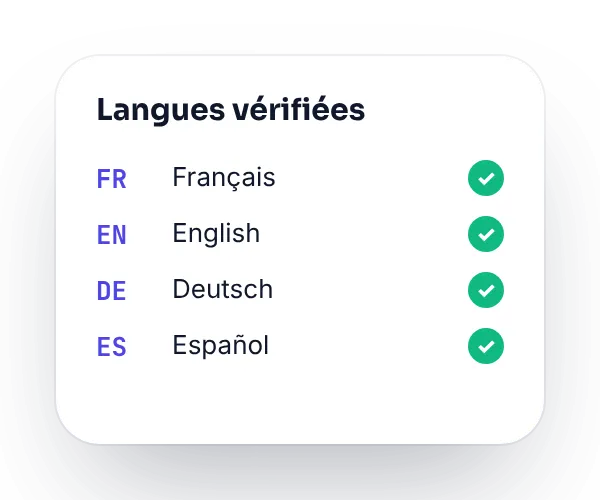
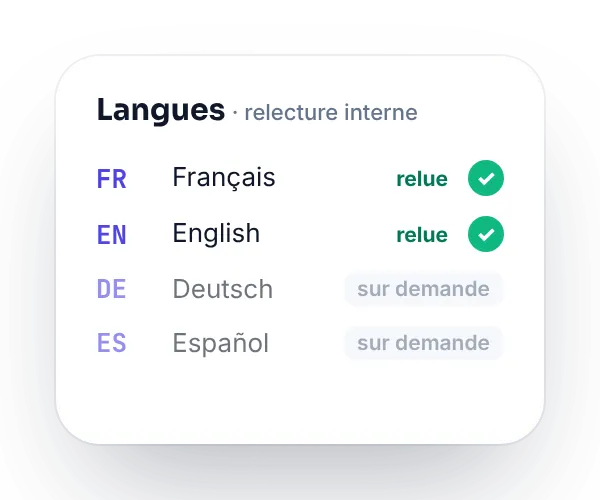
Landings v3: accuracy and pricing fixes (review method wording, language mockup, monthly plan caps, C4 review count, EU market, stale-data definition)

diff --git a/c1/index.html b/c1/index.html
@@ -62,11 +62,11 @@
    <article class="tile rv" style="--d:.24s" data-tilt><div class="pic"><img src="img/pb-uninstall.webp" width="440" height="300" loading="lazy" alt="Code d'une appli désinstallée resté dans le thème"></div><h3>Impossible à enlever</h3><p>Appli supprimée. Code et factures restés.</p></article>
   </div>
   <div class="proof rv">
-   <div class="pf"><span class="n">158</span><p>avis 1–2★ d'applis de traduction et photo lus un par un</p></div>
+   <div class="pf"><span class="n">158</span><p>avis 1–2★ d'applis de traduction et photo analysés</p></div>
    <div class="pf"><span class="n">68</span><p>parlent de thème, checkout ou SEO cassé</p></div>
    <div class="pf"><span class="n">57</span><p>d'un prix qui grimpe sans prévenir</p></div>
    <div class="pf"><span class="n">53</span><p>d'aucun humain pour aider</p></div>
-   <small>Source : avis publics sur le Shopify App Store, codés à la main en octobre 2026 (notre recherche, pas des résultats clients).</small>
+   <small>Source : avis publics sur le Shopify App Store, analysés par mots-clés en octobre 2026. Comptages approximatifs ; un avis peut entrer dans plusieurs catégories. Notre recherche, pas des résultats clients.</small>
   </div>
  </div>
 </section>
@@ -102,7 +102,7 @@
    <article class="tile big rv" data-tilt><div class="pic"><img src="img/after.webp" width="640" height="386" loading="lazy" alt="Fiche produit complète en français"></div><h3>La fiche complète</h3><ul><li>Titre SEO, description, points clés</li><li>Variantes et textes alt</li></ul></article>
    <article class="tile rv" style="--d:.08s" data-tilt><div class="pic"><img src="img/hero-csv.webp" width="520" height="300" loading="lazy" alt="Fichier CSV prêt à importer"></div><h3>Prête à importer</h3><p>CSV Shopify, PrestaShop ou WooCommerce. Ou saisie pour vous.</p></article>
    <article class="tile rv" style="--d:.16s" data-tilt><div class="pic"><img src="img/serp.webp" width="560" height="220" loading="lazy" alt="Aperçu d'un résultat de recherche avec titre et méta optimisés"></div><h3>Pensée pour le SEO</h3><p>Titre et méta à la bonne longueur.</p></article>
-   <article class="tile wide rv" data-tilt><div class="pic fit"><img src="img/hero-langs.webp" width="300" height="250" loading="lazy" alt="Liste de langues vérifiées"></div><h3>+ langues UE</h3><p>EN, DE, ES, IT. FR et EN relus en interne ; pour les autres, on vous le dit avant.</p></article>
+   <article class="tile wide rv" data-tilt><div class="pic fit"><img src="img/hero-langs.webp" width="300" height="250" loading="lazy" alt="Langues : français et anglais relus en interne, allemand et espagnol sur demande"></div><h3>+ langues UE</h3><p>EN, DE, ES, IT. FR et EN relus en interne ; pour les autres, on vous le dit avant.</p></article>
    <article class="tile wide rv" style="--d:.08s" data-tilt><div class="pic"><img src="img/audit.webp" width="560" height="400" loading="lazy" alt="Rapport d'audit avec liste de corrections priorisées"></div><h3>Vérifiée en ligne</h3><p>On contrôle la page publiée : caractères, variantes, URL.</p></article>
   </div>
  </div>
@@ -118,8 +118,8 @@
    <article class="plan hot rv" style="--d:.08s" data-tilt><span class="pill">Répond à la plainte n°1</span><h3>Audit localisation sans casse</h3><div class="amt">149 €</div><p class="sub">forfait · jusqu'à 25 pages clés</p>
     <ul><li>Checkout et panier non traduits</li><li>hreflang, URL par langue</li><li>TVA et devise par marché</li><li>Code laissé par d'anciennes applis</li><li>Corrections priorisées + visio 20 min</li></ul>
     <a class="btn" href="mailto:mydev.grokbot@gmail.com?subject=%5BC1%5D%20Audit%20149%20%E2%82%AC&amp;body=Lien%20de%20la%20boutique%20%3A%0ALangues%20en%20ligne%20%3A%0AProbl%C3%A8me%20constat%C3%A9%20%3A%0A">Demander l'audit</a></article>
-   <article class="plan rv" style="--d:.16s" data-tilt><h3>Catalogue FR sous contrôle</h3><div class="amt">190 €<small> / mois</small></div><p class="sub">sans engagement · « stop » par e-mail pour arrêter</p>
-    <ul><li>20 fiches nouvelles ou mises à jour / mois</li><li>FR + 1 langue UE</li><li>Contrôle après chaque mise à jour</li><li>Humain sous 1 jour ouvré</li><li>Même prix, quel que soit le nombre de mots</li></ul>
+   <article class="plan rv" style="--d:.16s" data-tilt><h3>Catalogue FR sous contrôle</h3><div class="amt">190 €<small> / mois</small></div><p class="sub">jusqu'à 7 fiches / mois · sans engagement · « stop » par e-mail</p>
+    <ul><li>Jusqu'à 7 fiches FR nouvelles ou mises à jour / mois</li><li>Contrôle mensuel des pages traduites (mini-audit)</li><li>Vérification après mise à jour du thème ou des applis</li><li>Humain sous 1 jour ouvré</li><li>Langue UE en plus : +12 € / fiche</li></ul>
     <a class="btn" href="mailto:mydev.grokbot@gmail.com?subject=%5BC1%5D%20Mensuel%20190%20%E2%82%AC&amp;body=Lien%20de%20la%20boutique%20%3A%0AProduits%20par%20mois%20%3A%0ALangues%20%3A%0A">En parler</a></article>
   </div>
   <div class="guar rv"><span class="shield" aria-hidden="true">🛡</span><p><b>En retard ou import raté ? Refaite ou remboursée.</b> Audit sans correction concrète ? Gratuit. Nous garantissons le travail livré, pas vos ventes.</p></div>

diff --git a/c4/index.html b/c4/index.html
@@ -61,10 +61,10 @@
    <article class="tile rv" style="--d:.16s" data-tilt><div class="pic"><img src="img/pb-trap.webp" width="440" height="300" loading="lazy" alt="Subscription screen pushing an annual plan with a hidden cancel link"></div><h3>Subscriptions that cling</h3><p>Free trial today. Annual plan tomorrow.</p></article>
   </div>
   <div class="proof p3 rv">
-   <div class="pf"><span class="n">65</span><p>one- and two-star reviews of product-research tools, read one by one</p></div>
-   <div class="pf"><span class="n">#1</span><p>complaint: billing and cancel traps. Next: outdated data.</p></div>
+   <div class="pf"><span class="n">54</span><p>one- and two-star reviews of three product-research tools, read one by one</p></div>
+   <div class="pf"><span class="n">15</span><p>of them: billing and cancel traps, the top complaint. Next: outdated data (7).</p></div>
    <div class="pf"><span class="n">2</span><p>of 54 research-tool reviews blamed products that didn't sell</p></div>
-   <small>Source: public Trustpilot reviews of four product-research tools, read in October 2026 (our research, not customer results).</small>
+   <small>Source: public Trustpilot reviews of three product-research tools, read in October 2026 and sorted by main complaint (our research, not customer results).</small>
   </div>
  </div>
 </section>
@@ -119,11 +119,11 @@
    <article class="plan hot rv" style="--d:.12s" data-tilt><span class="pill">Full decision</span><h3>Three + plan</h3><div class="amt">€149</div><p class="sub">3 products + test plan + call</p>
     <ul><li>Everything in Three</li><li>Capped test plan</li><li>20-min review call</li></ul>
     <a class="btn" href="mailto:mydev.grokbot@gmail.com?subject=%5BC4%5D%20Three%20%2B%20plan%20%E2%82%AC149&amp;body=Product%20links%20(3)%3A%0ATarget%20country%3A%0AMonthly%20ad%20budget%20(approx.)%3A%0A">Choose Three + plan</a></article>
-   <article class="plan rv" style="--d:.18s" data-tilt><h3>Decision Desk</h3><div class="amt">€99<small> / mo</small></div><p class="sub">Cancel anytime: reply "stop"</p>
-    <ul><li>3 reports a month</li><li>1 live-test check vs its kill rule</li><li>No annual plan, no trial trap</li></ul>
+   <article class="plan rv" style="--d:.18s" data-tilt><h3>Decision Desk</h3><div class="amt">€99<small> / mo</small></div><p class="sub">For ongoing testing · cancel anytime: reply "stop"</p>
+    <ul><li>2 reports a month</li><li>1 live-test check vs its kill rule</li><li>Kill / keep / scale call on that test</li><li>No annual plan, no trial trap</li></ul>
     <a class="btn" href="mailto:mydev.grokbot@gmail.com?subject=%5BC4%5D%20Decision%20Desk%20%E2%82%AC99%2Fmo&amp;body=Products%20per%20month%20(approx.)%3A%0ATarget%20country%3A%0A">Talk to us</a></article>
   </div>
-  <div class="guar rv"><span class="shield" aria-hidden="true">🛡</span><p><b>Wrong or stale figure? That report is refunded.</b> Stale means more than 30 days old at delivery. We guarantee the data, not your sales: no ROAS promises, no "winning products", no ad-account guarantees.</p></div>
+  <div class="guar rv"><span class="shield" aria-hidden="true">🛡</span><p><b>Wrong or stale figure? That report is refunded.</b> Stale means its capture date is more than 30 days before the report's delivery date. We guarantee the data, not your sales: no ROAS promises, no "winning products", no ad-account guarantees.</p></div>
   <p class="pilot">Pilot phase: no payment taken yet. No customers yet, so no testimonials shown.</p>
  </div>
 </section>
@@ -134,7 +134,7 @@
   <div class="faq rv">
    <details><summary>Where does the data come from?</summary><p>Public sources only: Meta Ad Library, TikTok Creative Center, Google Trends and marketplace listings. Every figure comes with its URL and capture date.</p></details>
    <details><summary>Is this a "winning products" list?</summary><p>No. You bring the product. We tell you whether to test it, fix the offer first, or skip it, and why.</p></details>
-   <details><summary>Do you guarantee sales or ROAS?</summary><p>No. Nobody honestly can. We guarantee the data is correct and recent, or that report is refunded.</p></details>
+   <details><summary>Do you guarantee sales or ROAS?</summary><p>No. Nobody honestly can. We guarantee every cited figure is correct and was captured no more than 30 days before delivery, or that report is refunded.</p></details>
    <details><summary>What is a capped test plan?</summary><p>A budget ceiling, a kill rule and a stop date, written before you spend. So a bad test ends small.</p></details>
    <details><summary>How do I cancel Decision Desk?</summary><p>Reply "stop" to any email. No annual plan, no trial that converts, no card stored by us.</p></details>
    <details><summary>Who are you?</summary><p>An independent e-commerce research project in its pilot phase. No customers yet, which is why there are no reviews or logos here.</p></details>
